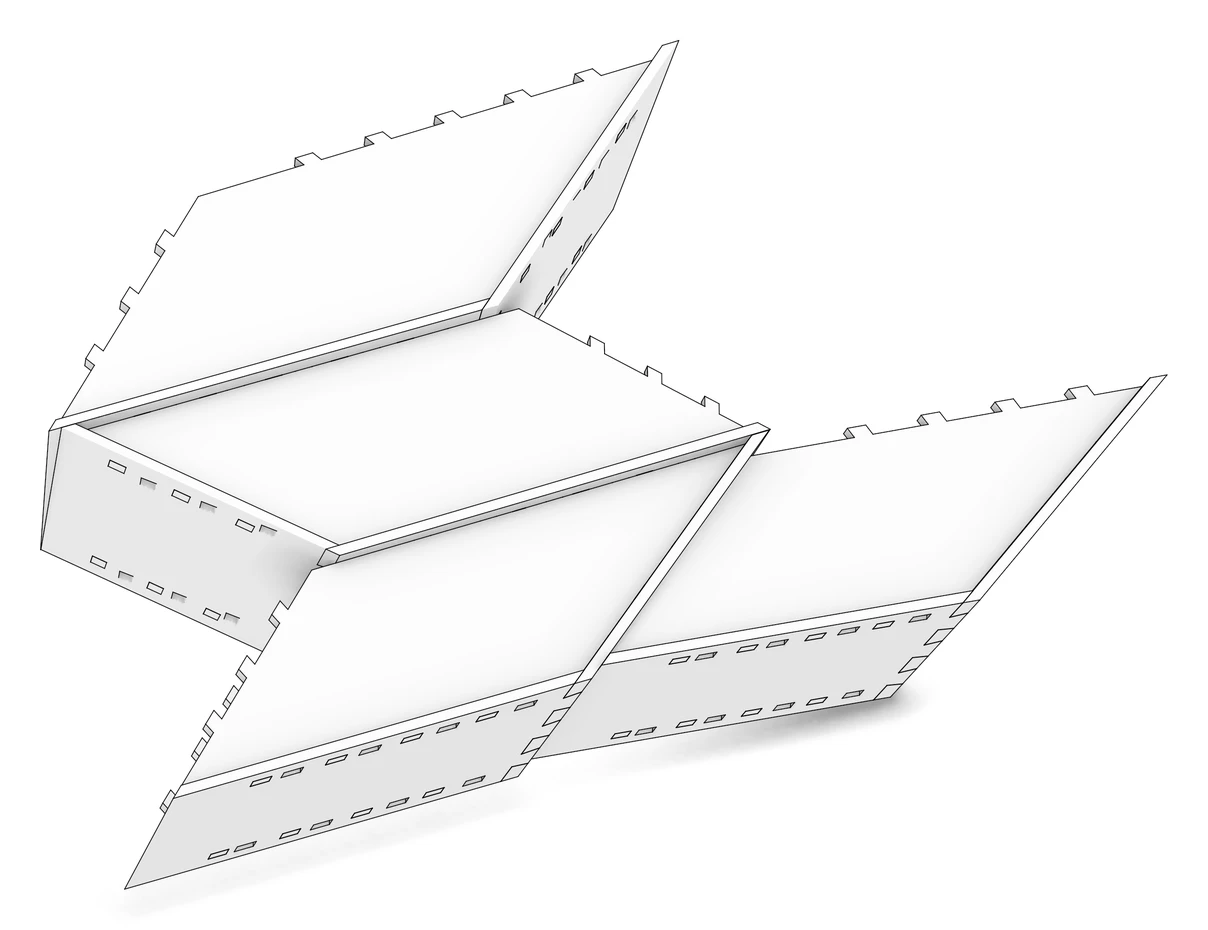
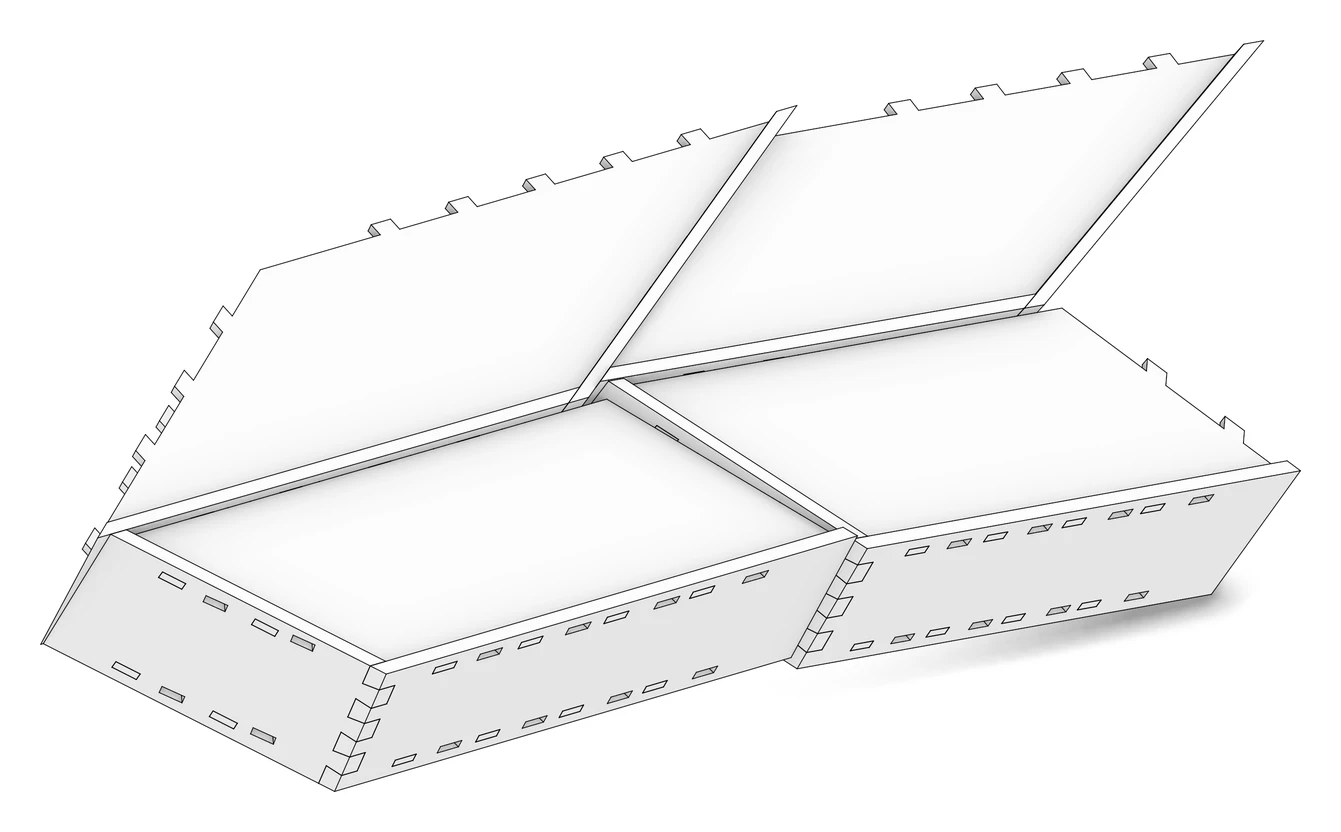
chevron: the joint close-ups on a 2 x 2 block of boxes at the crown, the shifted ground truth after the reviews
The three joints pictures show two neighbouring boxes of each of the two middle rows of boxes at the crown, in u and v, instead of boxes picked across the shell; the page names them. The shifted ground-truth paragraph carries the reviewers' numbers: every ground-truth tenon within 0.011 mm, the lean through the thickness within 0.012 mm, every slot the exact negative of its tenon on all 633 cut walls, the second torn ground-truth mesh (957), and the top plate the ground truth lacks. The junction rule of top_side_annen_shifted_tenons takes the wall's nearest end plane without a 1 mm cap, so a miss can no longer fall through to a plane parallel to the wall's far face. The element screenshot tool turns the elements' interaction features off, as the element pictures are meant to show the elements alone.

diff --git a/src/joinery_solver/wood_interaction/wood_interaction_feature/wood_interaction_feature_plate_joints/top_side_annen_shifted_tenons.h b/src/joinery_solver/wood_interaction/wood_interaction_feature/wood_interaction_feature_plate_joints/top_side_annen_shifted_tenons.h
@@ -19,7 +19,7 @@ static Plane annen_shifted_bound(
     if (std::abs(plate.planes[side].z_axis().dot(there.z_axis())) > 0.999) {
         const Vector normal = plate.planes[0].z_axis();
         std::optional<Plane> end;
-        double nearest = 1.0;
+        double nearest = std::numeric_limits<double>::infinity();
         for (size_t k = 2; k < wall.planes.size(); k++) {
             if (std::abs(wall.planes[k].z_axis().dot(normal)) > 0.9)
                 continue;

diff --git a/docs/templates/chevron.md b/docs/templates/chevron.md
@@ -114,7 +114,7 @@ outlines.push_back(Polyline::from_planes(box, edges[edge].translate_by_normal(t)
 
 ## Insertion Vectors and Joinery {#chevron_insertion}
 
-`compute_joinery()` fills the tables the wood solver reads, as Christopher Robeller's 2017 plugin (`AnnenComponent.cs`) made them. The insertion vector of a box is the diagonal at the corner opposite the one its two walls share, `-(unit(B - A) + unit(D - A))` in the box plane, the same on all four sides of its top and bottom plates; the walls' mitre faces take the box's up. The plates' sides carry joint type 22, `top_side_annen_tenons`, with `round(0.8 mesh edge / tab_length)` divisions each; the mitre face of the wall on the second chevron edge carries type 17, `side_side_outplane_annen_fingers`, with `finger_divisions`. The adjacency joins every plate to its box's two walls and to the two walls of the neighbours across the chevron edges, and the three-valence rows pair the two plates that meet through one wall. `compute_features()` then cuts the joints in world space, on the plates' own edges: a through-tenon is the middle 80% of a plate edge, moved up to 200 mm towards the edge middle it shares with the plate across the wall, in `4m + 1` equal segments with a tenon on every fourth from the third, each tenon the edge pushed along the insertion vector through the wall to its outer face, so the plate across the wall, which runs the shared edge the other way, lands its tenons in the segments between; the wall takes a slot per tenon. The corner of two walls is cut from the box's bottom face to its top in seven parts by planes parallel to the box faces turned `finger_angle` each way in turn about the second wall's long edge, Christopher's `dovetail2`, the first part a finger of that wall, every finger reaching the other wall's outer face. On the first Annen surface the 736 plates are those of the 2024 Annen dataset `annen_grid_full_arch` within 0.03 mm; their joints are the plugin's, not the dataset's generic ones. The picture shows the four boxes at the crown, `box_34`, `box_57`, `box_80` and `box_81`, with the joints cut into their plates.
+`compute_joinery()` fills the tables the wood solver reads, as Christopher Robeller's 2017 plugin (`AnnenComponent.cs`) made them. The insertion vector of a box is the diagonal at the corner opposite the one its two walls share, `-(unit(B - A) + unit(D - A))` in the box plane, the same on all four sides of its top and bottom plates; the walls' mitre faces take the box's up. The plates' sides carry joint type 22, `top_side_annen_tenons`, with `round(0.8 mesh edge / tab_length)` divisions each; the mitre face of the wall on the second chevron edge carries type 17, `side_side_outplane_annen_fingers`, with `finger_divisions`. The adjacency joins every plate to its box's two walls and to the two walls of the neighbours across the chevron edges, and the three-valence rows pair the two plates that meet through one wall. `compute_features()` then cuts the joints in world space, on the plates' own edges: a through-tenon is the middle 80% of a plate edge, moved up to 200 mm towards the edge middle it shares with the plate across the wall, in `4m + 1` equal segments with a tenon on every fourth from the third, each tenon the edge pushed along the insertion vector through the wall to its outer face, so the plate across the wall, which runs the shared edge the other way, lands its tenons in the segments between; the wall takes a slot per tenon. The corner of two walls is cut from the box's bottom face to its top in seven parts by planes parallel to the box faces turned `finger_angle` each way in turn about the second wall's long edge, Christopher's `dovetail2`, the first part a finger of that wall, every finger reaching the other wall's outer face. On the first Annen surface the 736 plates are those of the 2024 Annen dataset `annen_grid_full_arch` within 0.03 mm; their joints are the plugin's, not the dataset's generic ones. The picture shows a 2 x 2 block at the crown, `box_80`, `box_81`, `box_103` and `box_104`, two neighbouring boxes of each of the two middle rows of boxes, with the joints cut into their plates: the tenons on the open sides wait for the walls of the boxes around the block.
 
 ![](templates/templates_chevron_1_chevron_joints.webp)
 
@@ -134,7 +134,7 @@ _joints_per_face[pair + 3] = {0, 0, 17, 0, 0, 0};
 
 ## MAX2 Arch {#chevron_max2}
 
-`examples/templates_chevron_3_max2_arch.cpp` builds the second Annen surface with the slider values of the Grasshopper definition that drove the plugin for the 2017 MAX2 prototype of arches 21 and 22 (`2017_08_08_MAX2_22.gh`): rows from 900 growing by 0.04993 and stopping 2000 before the middle, 760 mm boxes with 40 mm plates 80 mm in from the box faces, the chevron edge planes turned 1.1 degrees and moved 18 mm, 80 mm tabs, corner fingers turned 15 degrees in seven parts, and the boundary planes of the prototype: the sides closed at y 132000 and 126000, the ground at z 3520. Its ground truth is the prototype's Rhino file, layer `solids_22`, the 800 jointed solids of arch 22 as the plugin cut them. Every one of the 800 plates built here has the vertex count of its solid; the two-way vertex distance per plate has a median of 0.77 mm, 739 plates lie within 2 mm and all but the plates of box 150 and four plates of its neighbours 101 and 151 within 2.71 mm, the rest a drift of the mesh itself, under 1 mm at the crown and up to 2.7 mm at the feet, carried by the raw plate corners: against its own outline every plate's tenons and fingers agree with the file's within 0.6 mm. Box 150 is the quirk of the definition: its ground edge is missing from its ground list, so the file's plates there stand up to 51 mm off the ground plane, and the four plates that meet them through its walls follow by up to 17 mm.
+`examples/templates_chevron_3_max2_arch.cpp` builds the second Annen surface with the slider values of the Grasshopper definition that drove the plugin for the 2017 MAX2 prototype of arches 21 and 22 (`2017_08_08_MAX2_22.gh`): rows from 900 growing by 0.04993 and stopping 2000 before the middle, 760 mm boxes with 40 mm plates 80 mm in from the box faces, the chevron edge planes turned 1.1 degrees and moved 18 mm, 80 mm tabs, corner fingers turned 15 degrees in seven parts, and the boundary planes of the prototype: the sides closed at y 132000 and 126000, the ground at z 3520. Its ground truth is the prototype's Rhino file, layer `solids_22`, the 800 jointed solids of arch 22 as the plugin cut them. Every one of the 800 plates built here has the vertex count of its solid; the two-way vertex distance per plate has a median of 0.77 mm, 739 plates lie within 2 mm and all but the plates of box 150 and four plates of its neighbours 101 and 151 within 2.71 mm, the rest a drift of the mesh itself, under 1 mm at the crown and up to 2.7 mm at the feet, carried by the raw plate corners: against its own outline every plate's tenons and fingers agree with the file's within 0.6 mm. Box 150 is the quirk of the definition: its ground edge is missing from its ground list, so the file's plates there stand up to 51 mm off the ground plane, and the four plates that meet them through its walls follow by up to 17 mm. The pictures show the arch and a 2 x 2 block at its crown, `box_87`, `box_88`, `box_112` and `box_113`, two neighbouring boxes of each of the two middle rows of boxes.
 
 ![](templates/templates_chevron_3_max2_arch_plates.webp)
 
@@ -236,7 +236,7 @@ loop.push_back(
 
 ### Joinery {#chevron_shifted_joinery}
 
-The joints are the definition's own, its C# script's `GetZigZag`, as the solver design `top_side_annen_shifted_tenons` (id 23) cuts them. The insertion direction of a cell is the bisector of two of its own sides on its outline, `unit(e5) - unit(e0)` for an even hexagon, and its axis is the mean of those two sides' plane normals to the surface, the `dirY` of the definition's insertion planes; both go to the edges whose walls the cell slides into, so a plate's side face carries the direction and axis of the cell that owns its edge, in `insertion_vectors` and `feature_axes`. Every side the definition's outer plane loop moved out by a wall carries the type 23: all six edges of a hexagon, all four of a last quad, the long side and the top of a first quad, whose other sides the definition left in place (the left side under its neighbour's wall gets a degenerate zigzag there, so no joint). A wall is joined, wall first, to each top and bottom plate whose side on its edge has a direction; the three-valence rows `{top0, wall, top1, wall}` stay as the two plates sharing a wall. The design then draws the plate's mid-wall line from the middle of its inner corner on one face and its outer corner on the other at each end, averages it with the line of the plate across the wall and keeps the middle 90%: `4·divisions + 1` steps on a line over `long_edge`, `2·divisions + 1` under it, a tenon half a step wide around every odd step, so the plate across the wall, running the line the other way, takes the even steps; the flanks are the planes through the direction and the axis, from the wall's inner face to its outer, each tenon with its slot through the wall, and an edge under `short_edge` gets none. From these tables the solver cuts the tenons and slots into all 1076 plates; the picture looks into the crown of the shell, every plate and wall in place.
+The joints are the definition's own, its C# script's `GetZigZag`, as the solver design `top_side_annen_shifted_tenons` (id 23) cuts them. The insertion direction of a cell is the bisector of two of its own sides on its outline, `unit(e5) - unit(e0)` for an even hexagon, and its axis is the mean of those two sides' plane normals to the surface, the `dirY` of the definition's insertion planes; both go to the edges whose walls the cell slides into, so a plate's side face carries the direction and axis of the cell that owns its edge, in `insertion_vectors` and `feature_axes`. Every side the definition's outer plane loop moved out by a wall carries the type 23: all six edges of a hexagon, all four of a last quad, the long side and the top of a first quad, whose other sides the definition left in place (the left side under its neighbour's wall gets a degenerate zigzag there, so no joint). A wall is joined, wall first, to each top and bottom plate whose side on its edge has a direction; the three-valence rows `{top0, wall, top1, wall}` stay as the two plates sharing a wall. The design then draws the plate's mid-wall line from the middle of its inner corner on one face and its outer corner on the other at each end, averages it with the line of the plate across the wall and keeps the middle 90%: `4·divisions + 1` steps on a line over `long_edge`, `2·divisions + 1` under it, a tenon half a step wide around every odd step, so the plate across the wall, running the line the other way, takes the even steps; the flanks are the planes through the direction and the axis, from the wall's inner face to its outer, each tenon with its slot through the wall, and an edge under `short_edge` gets none. From these tables the solver cuts the tenons and slots into all 1076 plates; the picture shows a 2 x 2 block at the crown, `box_94`, `box_95`, `box_120` and `box_121`, two neighbouring cells of each of the two middle columns: the even column's cells bring their walls, the odd column's plates sit between the walls their even neighbours own, those outside the block missing from the picture.
 
 ![](templates/templates_chevron_2_shifted_joints.webp)
 
@@ -259,7 +259,7 @@ for (size_t k = 0; k < edges.size(); k++) {
 
 ### Ground Truth {#chevron_shifted_ground_truth}
 
-`examples/templates_chevron_2_shifted.cpp` builds the pattern on the first Annen surface, the surface internalised in the definition, and is compared with `Annen2.3dm` as the definition baked it: 431 top and bottom plates carrying its tenons and 644 walls it never cut, as meshes in metres. Every vertex of every ground-truth plate lies within 0.011 mm of our outlines after the joints, and every one of its 12819 tenons has its four corners within 1 mm of a tenon of ours, on all 431 plates; every ground-truth wall vertex lies within 0.011 mm of our wall outlines, and the ground truth lacks the top plate of the last quad of column 0, which this template builds. Ours has 220 tenons more, on 56 plates: 200 of them next to the seam of a ground-truth outline, on its first or last side, where the definition's polyline insertion dropped the tenons it had computed, and 20 on the one ground-truth mesh whose cap is torn (object 844); the definition's walls are plain, so the slots the solver cuts for every tenon have no counterpart there, and the eleven walls no tenon reaches, the feet's 140 mm half-walls and the last quads' end walls, stay uncut here as well.
+`examples/templates_chevron_2_shifted.cpp` builds the pattern on the first Annen surface, the surface internalised in the definition, and is compared with `Annen2.3dm` as the definition baked it: 431 top and bottom plates carrying its tenons and 644 walls it never cut, as meshes in metres. Every vertex of every ground-truth plate lies within 0.011 mm of our outlines after the joints, and every tenon the ground truth carries, 12772 of them, has its corners within 0.011 mm of a tenon of ours, on all 431 plates, leaning through the plate's thickness as the ground truth's do within 0.012 mm; every ground-truth wall vertex lies within 0.011 mm of our wall outlines, and the ground truth lacks the top plate of the last quad of column 0, which this template builds. Ours has tenons the ground truth lacks on 56 plates: those next to the seam of a ground-truth outline, on its first or last side, always the ones nearest the seam corner, where the definition's polyline insertion dropped the tenons it had computed, and those on the two ground-truth meshes whose caps are torn (objects 844 and 957). The definition's walls are plain, so the slots the solver cuts for every tenon have no counterpart there; every slot of ours is the exact negative of its tenon, within 0.001 mm on all 633 cut walls, and the eleven walls no tenon reaches, the feet's 140 mm half-walls and the last quads' end walls, stay uncut here as well.
 
 ```cpp
 #include "wood_session.h"
